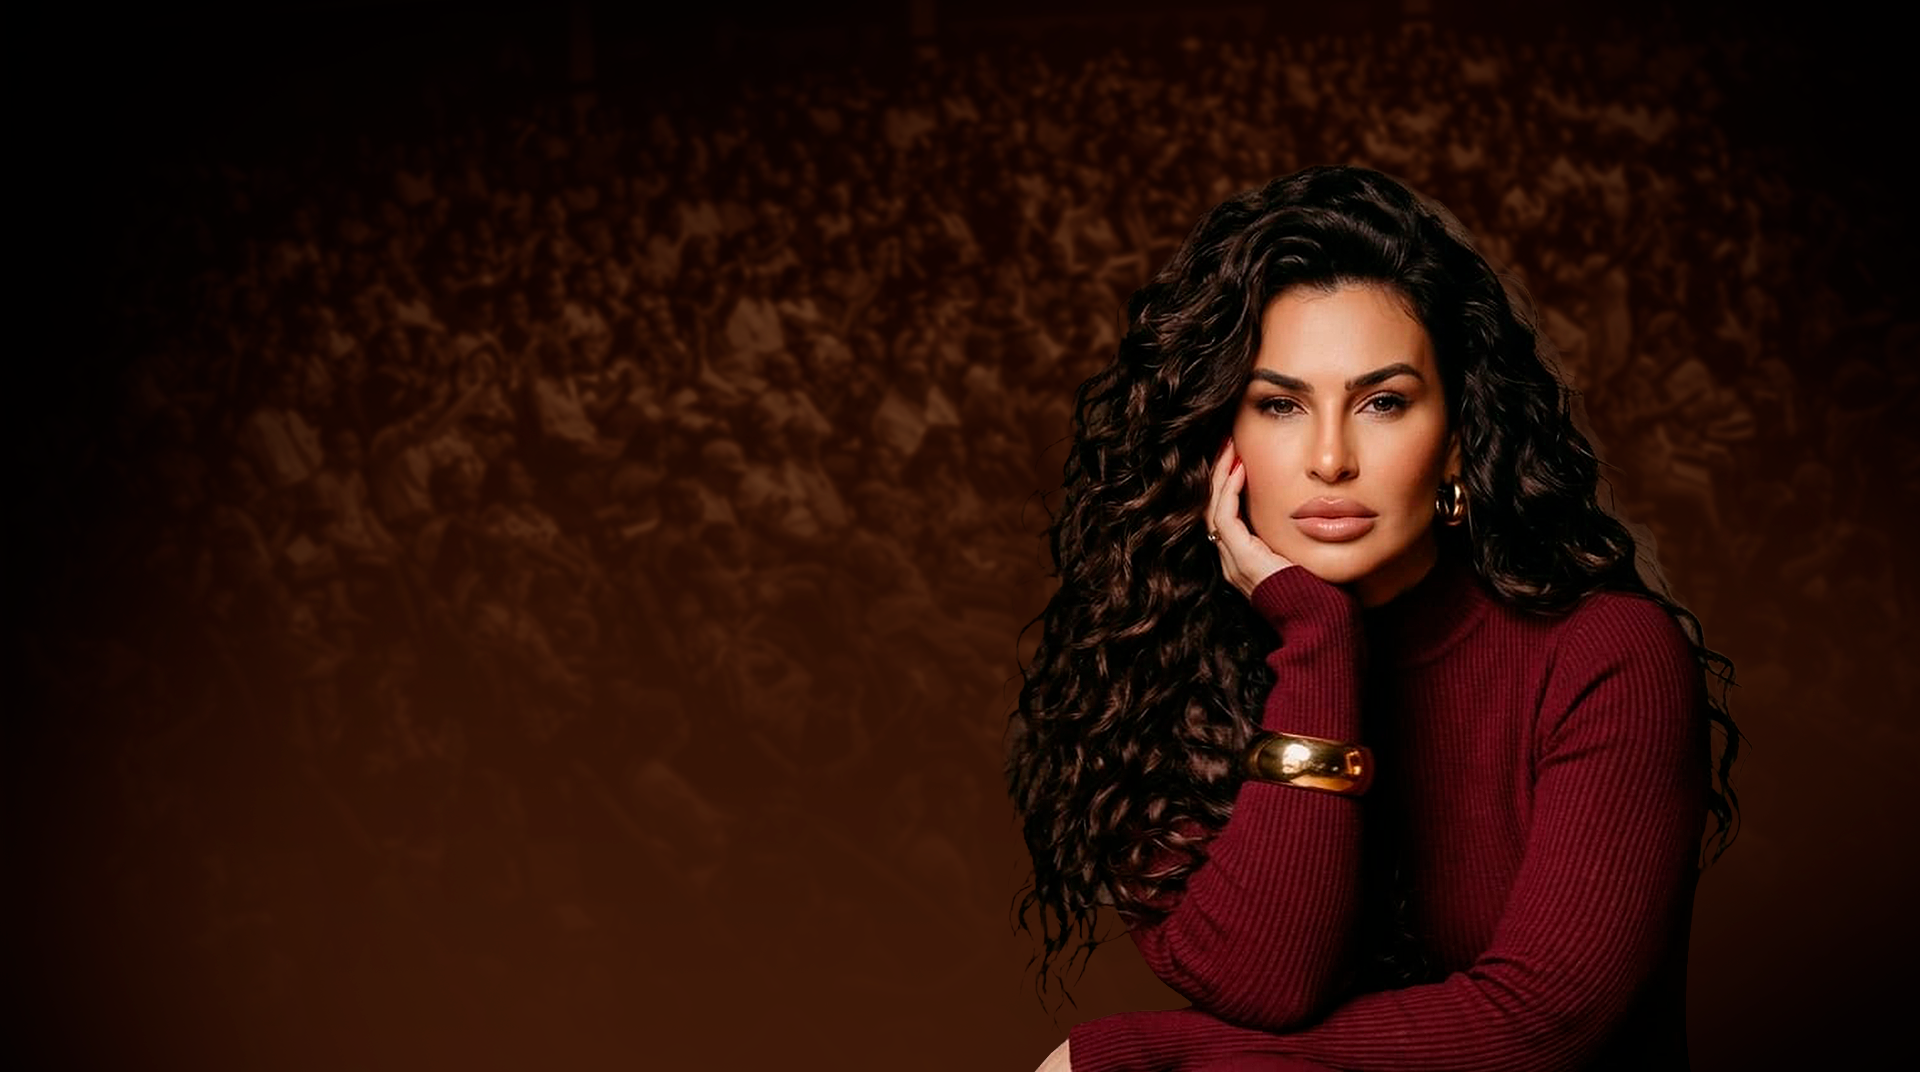
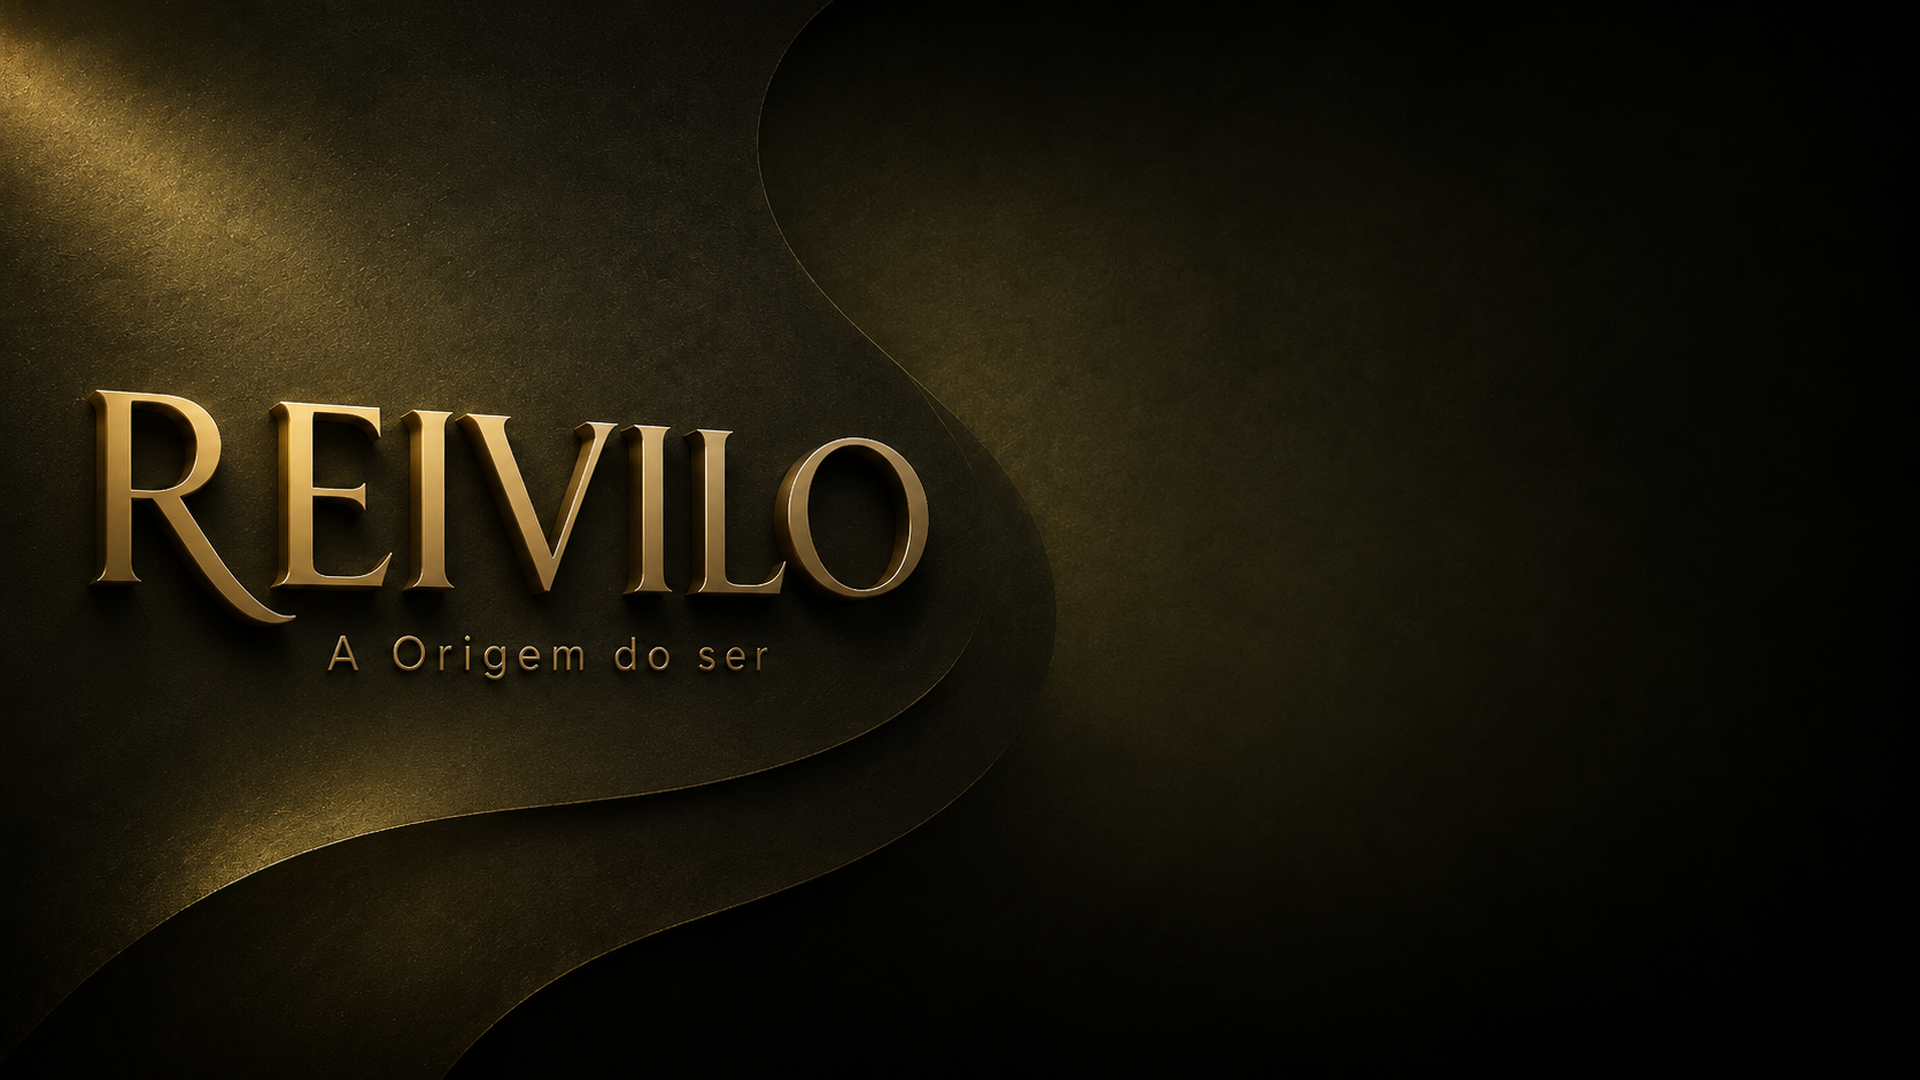
Add files via upload

diff --git a/app/static/css/style.css b/app/static/css/style.css
@@ -636,3 +636,106 @@ blockquote{
     white-space:normal;
   }
 }
+
+/* Alterações REIVILO - hero à direita, apresentação com 1 foto, CTA final sem formulário */
+.hero-bg{
+  background-image:
+    linear-gradient(90deg,rgba(0,0,0,.08) 0%,rgba(0,0,0,.10) 45%,rgba(0,0,0,.56) 70%,rgba(0,0,0,.86) 100%),
+    linear-gradient(0deg,rgba(12,3,2,.92),rgba(12,3,2,0) 26%),
+    url('../img/hero-bg.png');
+  background-position:center center;
+  background-size:cover;
+}
+.hero-content{
+  display:flex;
+  justify-content:flex-end;
+  align-items:center;
+}
+.hero-copy{
+  margin-left:0;
+  margin-right:3.2%;
+  text-align:left;
+}
+.hero .italic,
+.hero .premium-button,
+.hero .micro{
+  margin-left:0;
+}
+.hero h1{
+  max-width:650px;
+}
+.intro .cta-copy{
+  max-width:1055px;
+}
+.intro .cta-copy p{
+  margin-left:auto;
+  margin-right:auto;
+}
+.intro-photo-wrap{
+  display:flex;
+  justify-content:center;
+  margin-top:54px;
+}
+.intro-photo{
+  width:min(520px,92vw);
+  aspect-ratio:4/5;
+  border-radius:28px;
+  overflow:hidden;
+  border:1px solid rgba(217,167,93,.34);
+  background:linear-gradient(180deg,rgba(63,17,10,.92),rgba(17,4,3,.98));
+  box-shadow:0 30px 85px rgba(0,0,0,.48),0 0 0 1px rgba(255,255,255,.025) inset;
+  position:relative;
+}
+.intro-photo::after{
+  content:"";
+  position:absolute;
+  inset:12px;
+  border:1px solid rgba(255,232,210,.18);
+  border-radius:22px;
+  pointer-events:none;
+}
+.intro-photo img{
+  width:100%;
+  height:100%;
+  object-fit:cover;
+  object-position:center top;
+  filter:saturate(.95) contrast(.98) brightness(.9);
+}
+.single-cta{
+  margin-top:34px;
+}
+#contato .cta-copy p{
+  margin-bottom:0;
+}
+@media(max-width:900px){
+  .hero{
+    align-items:center;
+    padding-bottom:0;
+  }
+  .hero-bg{
+    background-image:
+      linear-gradient(180deg,rgba(0,0,0,.08) 0%,rgba(0,0,0,.28) 44%,rgba(0,0,0,.82) 100%),
+      url('../img/hero-bg.png');
+    background-position:28% center;
+  }
+  .hero-content{
+    justify-content:center;
+    align-items:flex-end;
+    padding-top:220px;
+  }
+  .hero-copy{
+    margin-right:0;
+    text-align:center;
+    width:min(560px,94vw);
+  }
+  .hero h1{
+    margin-inline:auto;
+  }
+  .hero .micro{
+    margin-left:auto;
+    margin-right:auto;
+  }
+  .intro-photo{
+    width:min(430px,92vw);
+  }
+}

diff --git a/app/templates/index.html b/app/templates/index.html
@@ -15,17 +15,17 @@
   <div class="site-bg"></div>
   <header class="nav glass">
     <nav class="nav-inner container">
-      <div class="nav-left"><a href="#sobre">Sobre</a><a href="#mentoria">Mentorias</a><a href="#experiencias">Experiências</a></div>
+      <div class="nav-left"><a href="#sobre">Sobre</a><a href="#mentoria">Mentorias</a></div>
       <a class="logo" href="#inicio"><img src="{{ url_for('static', filename='img/brand-logo.png') }}" alt="Mari Olivier"></a>
-      <div class="nav-right"><a class="premium-button premium-nav" href="#contato"><span class="premium-dots" aria-hidden="true"></span><i class="bi bi-stars premium-icon" aria-hidden="true"></i><span class="premium-text">Começar minha jornada</span></a></div>
+      <div class="nav-right"><a class="premium-button premium-nav" href="#contato"><span class="premium-dots" aria-hidden="true"></span><i class="bi bi-stars premium-icon" aria-hidden="true"></i><span class="premium-text">Quero fazer parte da REIVILO</span></a></div>
       <button class="menu" aria-label="Abrir menu" aria-expanded="false" aria-controls="mobile-menu">☰</button>
     </nav>
     <div class="mobile-menu-backdrop" aria-hidden="true"></div>
     <aside id="mobile-menu" class="mobile-drawer" aria-hidden="true">
       <a href="#sobre">Sobre</a>
       <a href="#mentoria">Mentorias</a>
-      <a href="#experiencias">Experiências</a>
-      <a class="premium-button premium-nav" href="#contato"><span class="premium-dots" aria-hidden="true"></span><i class="bi bi-stars premium-icon" aria-hidden="true"></i><span class="premium-text">Começar minha jornada</span></a>
+      
+      <a class="premium-button premium-nav" href="#contato"><span class="premium-dots" aria-hidden="true"></span><i class="bi bi-stars premium-icon" aria-hidden="true"></i><span class="premium-text">Quero fazer parte da REIVILO</span></a>
     </aside>
   </header>
 
@@ -36,7 +36,7 @@
         <div class="hero-copy">
           <h1>Seu próximo nível<br class="desktop-title-break"> começa por uma<br class="desktop-title-break"> nova estrutura.</h1>
           <p class="italic">Você tem o poder de mudar tudo.</p>
-          <a class="premium-button premium-hero" href="#contato"><span class="premium-dots" aria-hidden="true"></span><i class="bi bi-stars premium-icon" aria-hidden="true"></i><span class="premium-text">Começar minha jornada</span></a>
+          <a class="premium-button premium-hero" href="#contato"><span class="premium-dots" aria-hidden="true"></span><i class="bi bi-stars premium-icon" aria-hidden="true"></i><span class="premium-text">Quero fazer parte da REIVILO</span></a>
           <p class="micro">Há mais de 15 anos conduzindo jornadas que unem desenvolvimento humano, comunicação, imagem, comportamento e psicanálise.</p>
         </div>
       </div>
@@ -50,32 +50,11 @@
         <p>Exige consciência, posicionamento, comunicação, identidade e a coragem de romper padrões que já não sustentam o futuro que você deseja construir.</p>
         <p>Aqui, transformação não é sobre mudar quem você é. É sobre fortalecer quem você nasceu para ser.</p>
       </div>
-      <div class="container story-videos reveal" aria-label="Vídeos em formato stories">
-        <article class="story-card">
-          <video controls playsinline preload="metadata" poster="{{ url_for('static', filename='img/mari-portrait.jpg') }}">
-            <source src="{{ url_for('static', filename='videos/story-1.mp4') }}" type="video/mp4">
-          </video>
-          <div class="story-overlay"><span>01</span><strong>Presença</strong></div>
-        </article>
-        <article class="story-card">
-          <video controls playsinline preload="metadata" poster="{{ url_for('static', filename='img/mari-about.jpg') }}">
-            <source src="{{ url_for('static', filename='videos/story-2.mp4') }}" type="video/mp4">
-          </video>
-          <div class="story-overlay"><span>02</span><strong>Mentoria</strong></div>
-        </article>
-        <article class="story-card">
-          <video controls playsinline preload="metadata" poster="{{ url_for('static', filename='img/workshop-tijucas.jpg') }}">
-            <source src="{{ url_for('static', filename='videos/story-3.mp4') }}" type="video/mp4">
-          </video>
-          <div class="story-overlay"><span>03</span><strong>Experiência</strong></div>
-        </article>
+      <div class="container intro-photo-wrap reveal" aria-label="Imagem de apresentação Mari Olivier">
+        <div class="intro-photo">
+          <img src="{{ url_for('static', filename='img/mari-portrait.jpg') }}" alt="Mari Olivier">
+        </div>
       </div>
-      <div class="container trinity reveal">
-        <div><strong>Moda</strong><small>como ferramenta de expressão</small></div>
-        <div><strong>Imagem</strong><small>como extensão da identidade</small></div>
-        <div><strong>Presença</strong><small>como força de posicionamento</small></div>
-      </div>
-      <p class="container section-line">Assista e descubra como a sua imagem pode contar uma nova história.</p>
     </section>
 
     <section id="mentoria" class="section cards-section">
@@ -159,26 +138,6 @@
       </div>
     </section>
 
-    <section id="experiencias" class="section experiences">
-      <div class="container reveal">
-        <p class="eyebrow">Experiências</p>
-        <h2>Palestras, workshops e<br>experiências que conectam<br><span>imagem, presença e propósito</span></h2>
-        <p class="lead">Mari Olivier desenvolve experiências para empresas, eventos, grupos, mulheres, equipes e projetos que desejam trabalhar imagem pessoal, comunicação, autoestima, posicionamento e comportamento de forma profunda, elegante e prática.</p>
-        <div class="services services-mixed">
-          <article><h3>Palestras</h3><p>Desenvolvimento de competências que fortalecem a comunicação, a liderança, o posicionamento e a performance humana.</p></article>
-          <figure class="service-photo"><img src="{{ url_for('static', filename='img/workshop-tijucas.jpg') }}" alt="Palestra Sicoob"><figcaption>PALESTRA</figcaption></figure>
-          <article><h3>Workshops</h3><p>Experiências práticas para fortalecer competências comportamentais, ampliar resultados e potencializar a atuação profissional e humana.</p></article>
-          <figure class="service-photo"><img src="{{ url_for('static', filename='img/palestra-corporativa.jpg') }}" alt="Mentoria"><figcaption>MENTORIA</figcaption></figure>
-          <article><h3>Eventos e Desfiles</h3><p>Criação, desenvolvimento e condução de experiências que conectam pessoas, marcas e propósito por meio da presença física e digital.</p></article>
-          <figure class="service-photo"><img src="{{ url_for('static', filename='img/evento-por-do-sol.jpg') }}" alt="Evento"><figcaption>EVENTO</figcaption></figure>
-          <article><h3>Presença e Representatividade</h3><p>Formação para o desenvolvimento da presença, da comunicação, da etiqueta, da postura e do posicionamento de pessoas que participam de concursos de beleza, representam marcas, instituições ou desejam aperfeiçoar sua atuação em ambientes de destaque e visibilidade.</p></article>
-          <figure class="service-photo service-photo-a-jornada"><img src="{{ url_for('static', filename='img/a-jornada.jpg') }}" alt="A Jornada"><figcaption>A JORNADA</figcaption></figure>
-          <article><h3>A Jornada que Define Quem Somos</h3><p>Uma experiência conduzida por Mari Olivier e pelo cantor Renner, da dupla Rick & Renner, que une palestra e show em uma proposta exclusiva. Por meio de histórias, aprendizados, desenvolvimento humano, empreendedorismo e música ao vivo, a experiência inspira reflexões sobre trajetória, identidade, propósito e transformação.</p></article>
-        </div>
-        <div class="center event-cta"><a class="premium-button" href="#contato"><span class="premium-dots" aria-hidden="true"></span><i class="bi bi-stars premium-icon" aria-hidden="true"></i><span class="premium-text">Levar Mari Olivier para o meu evento</span></a></div>
-      </div>
-    </section>
-
     <section class="section faq">
       <div class="container faq-wrap reveal">
         <p class="eyebrow center-text">FAQ</p>
@@ -193,10 +152,7 @@
           desenvolvemos pessoas capazes de viver, liderar <br>
           e prosperar com autenticidade, consciência e significado.</h2>
         <p>Por Mari Olivier</p>
-        <div class="cta-actions"><a class="premium-button" href="https://wa.me/5500000000000?text=Ol%C3%A1%2C%20quero%20falar%20com%20Mari%20Olivier"><span class="premium-dots" aria-hidden="true"></span><i class="bi bi-stars premium-icon" aria-hidden="true"></i><span class="premium-text">Falar com Mari Olivier</span></a><a class="premium-button premium-ghost" href="#experiencias"><span class="premium-dots" aria-hidden="true"></span><i class="bi bi-stars premium-icon" aria-hidden="true"></i><span class="premium-text">Quero saber mais sobre palestras</span></a></div>
-        <form class="lead-form" action="/contato" method="post">
-          <input name="name" placeholder="Seu nome" required><input name="phone" placeholder="WhatsApp"><input name="email" placeholder="E-mail"><input name="interest" placeholder="Interesse: mentoria, palestra, workshop..."><textarea name="message" placeholder="Mensagem"></textarea><button class="premium-button" type="submit"><span class="premium-dots" aria-hidden="true"></span><i class="bi bi-stars premium-icon" aria-hidden="true"></i><span class="premium-text">Enviar contato</span></button>
-        </form>
+        <div class="cta-actions single-cta"><a class="premium-button" href="https://wa.me/5500000000000?text=Ol%C3%A1%2C%20preciso%20viver%20isso"><span class="premium-dots" aria-hidden="true"></span><i class="bi bi-stars premium-icon" aria-hidden="true"></i><span class="premium-text">Preciso viver isso</span></a></div>
       </div>
     </section>
   </main>